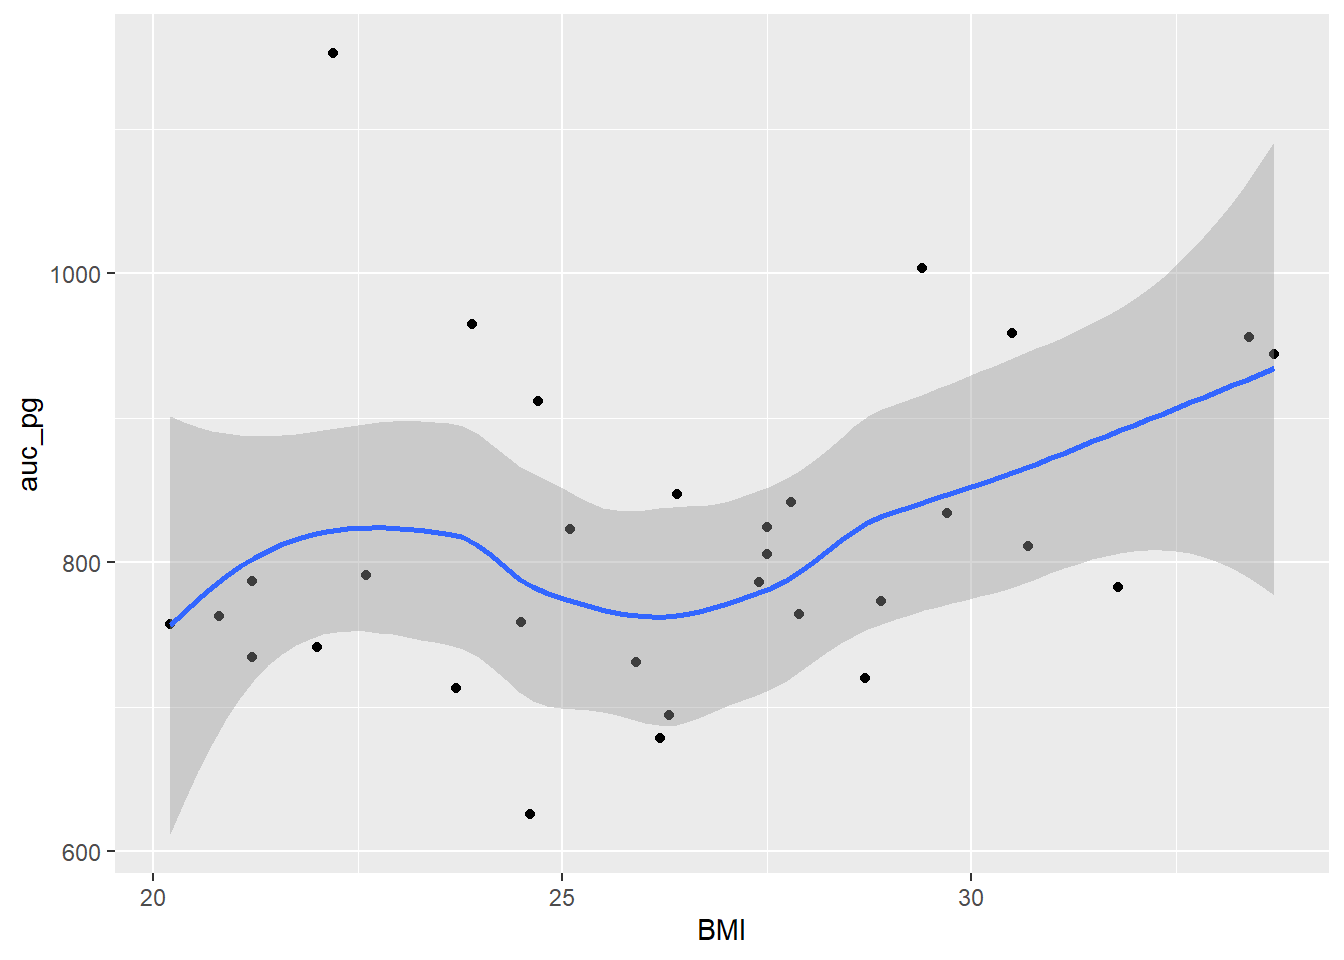
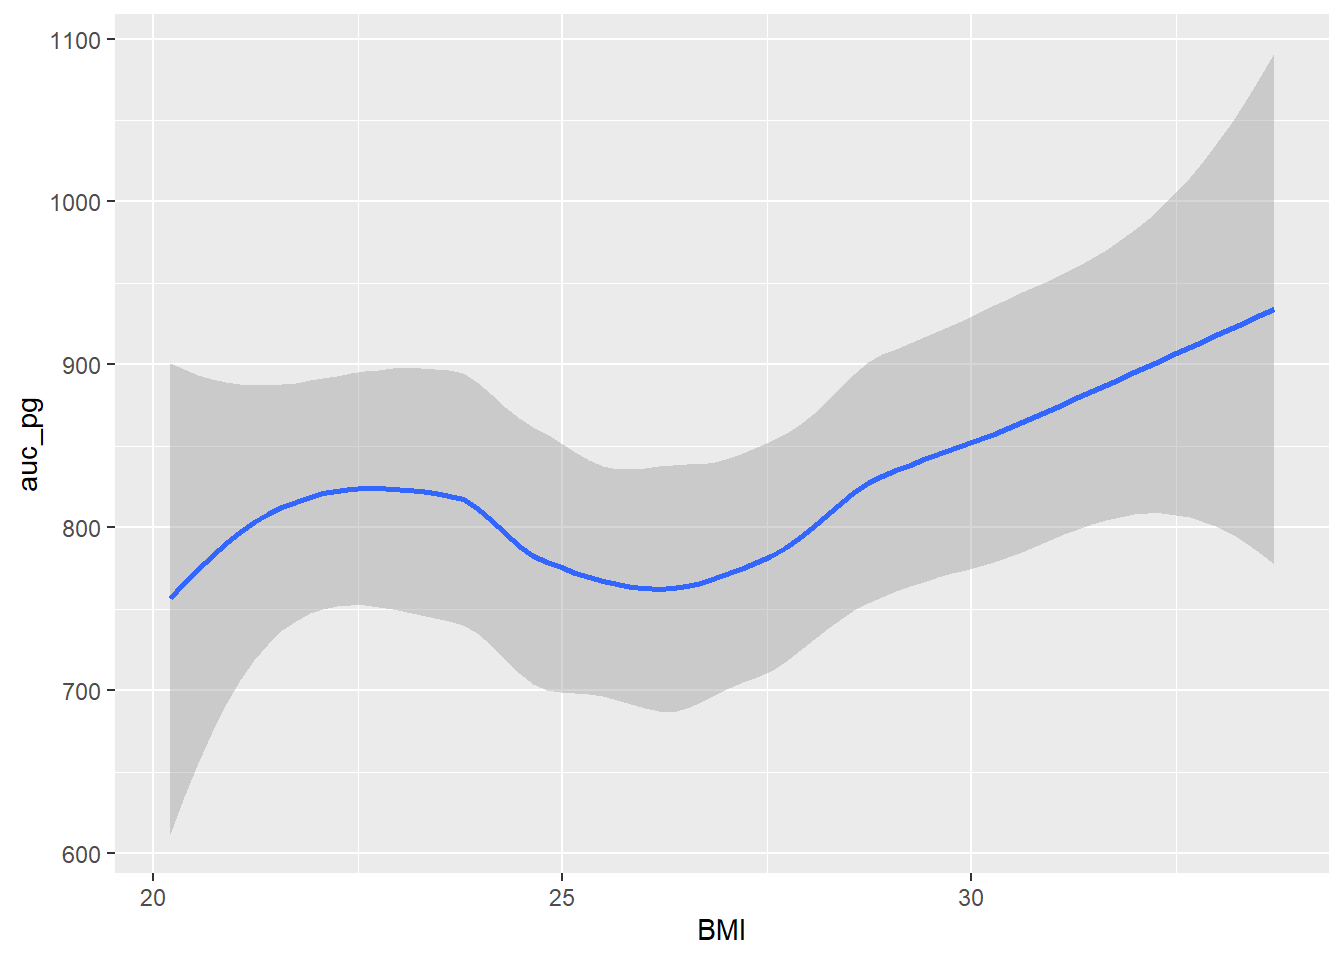
removing github code to console

diff --git a/docs/learning.html b/docs/learning.html
@@ -517,8 +517,7 @@ logisk: returnerer NA</code></pre>
 <p>Options are: post_meal_data |&gt; geom_point() geom_hex() geom_smooth()</p>
 <div class="cell">
 <div class="sourceCode cell-code" id="cb35"><pre class="sourceCode r code-with-copy"><code class="sourceCode r"><span id="cb35-1"><a href="#cb35-1" aria-hidden="true" tabindex="-1"></a><span class="fu">ggplot</span>(post_meal_data, <span class="fu">aes</span>(<span class="at">x =</span> BMI, <span class="at">y =</span> auc_pg)) <span class="sc">+</span></span>
-<span id="cb35-2"><a href="#cb35-2" aria-hidden="true" tabindex="-1"></a>  <span class="fu">geom_point</span>() <span class="sc">+</span></span>
-<span id="cb35-3"><a href="#cb35-3" aria-hidden="true" tabindex="-1"></a>  <span class="fu">geom_smooth</span>()</span></code><button title="Copy to Clipboard" class="code-copy-button"><i class="bi"></i></button></pre></div>
+<span id="cb35-2"><a href="#cb35-2" aria-hidden="true" tabindex="-1"></a>  <span class="fu">geom_smooth</span>()</span></code><button title="Copy to Clipboard" class="code-copy-button"><i class="bi"></i></button></pre></div>
 <div class="cell-output cell-output-stderr">
 <pre><code>`geom_smooth()` using method = 'loess' and formula = 'y ~ x'</code></pre>
 </div>
@@ -535,6 +534,17 @@ Figure&nbsp;4: Scatterplot of BMI and the auc for glucose.
 </div>
 </div>
 </div>
+</section>
+<section id="github-is-an-online-service-remote-directory-or-repositpory" class="level2">
+<h2 class="anchored" data-anchor-id="github-is-an-online-service-remote-directory-or-repositpory">Github is an online service (remote directory or repositpory)</h2>
+<p>Make a password:</p>
+</section>
+<section id="pushing-changes-to-remote-github" class="level2">
+<h2 class="anchored" data-anchor-id="pushing-changes-to-remote-github">Pushing changes to remote (Github)</h2>
+<p>Now I write directly in Github. Afterwards I can pull it to my local folder</p>
+</section>
+<section id="pulling-changes-locally" class="level2">
+<h2 class="anchored" data-anchor-id="pulling-changes-locally">Pulling changes locally</h2>
 </section>
 </section>
 
